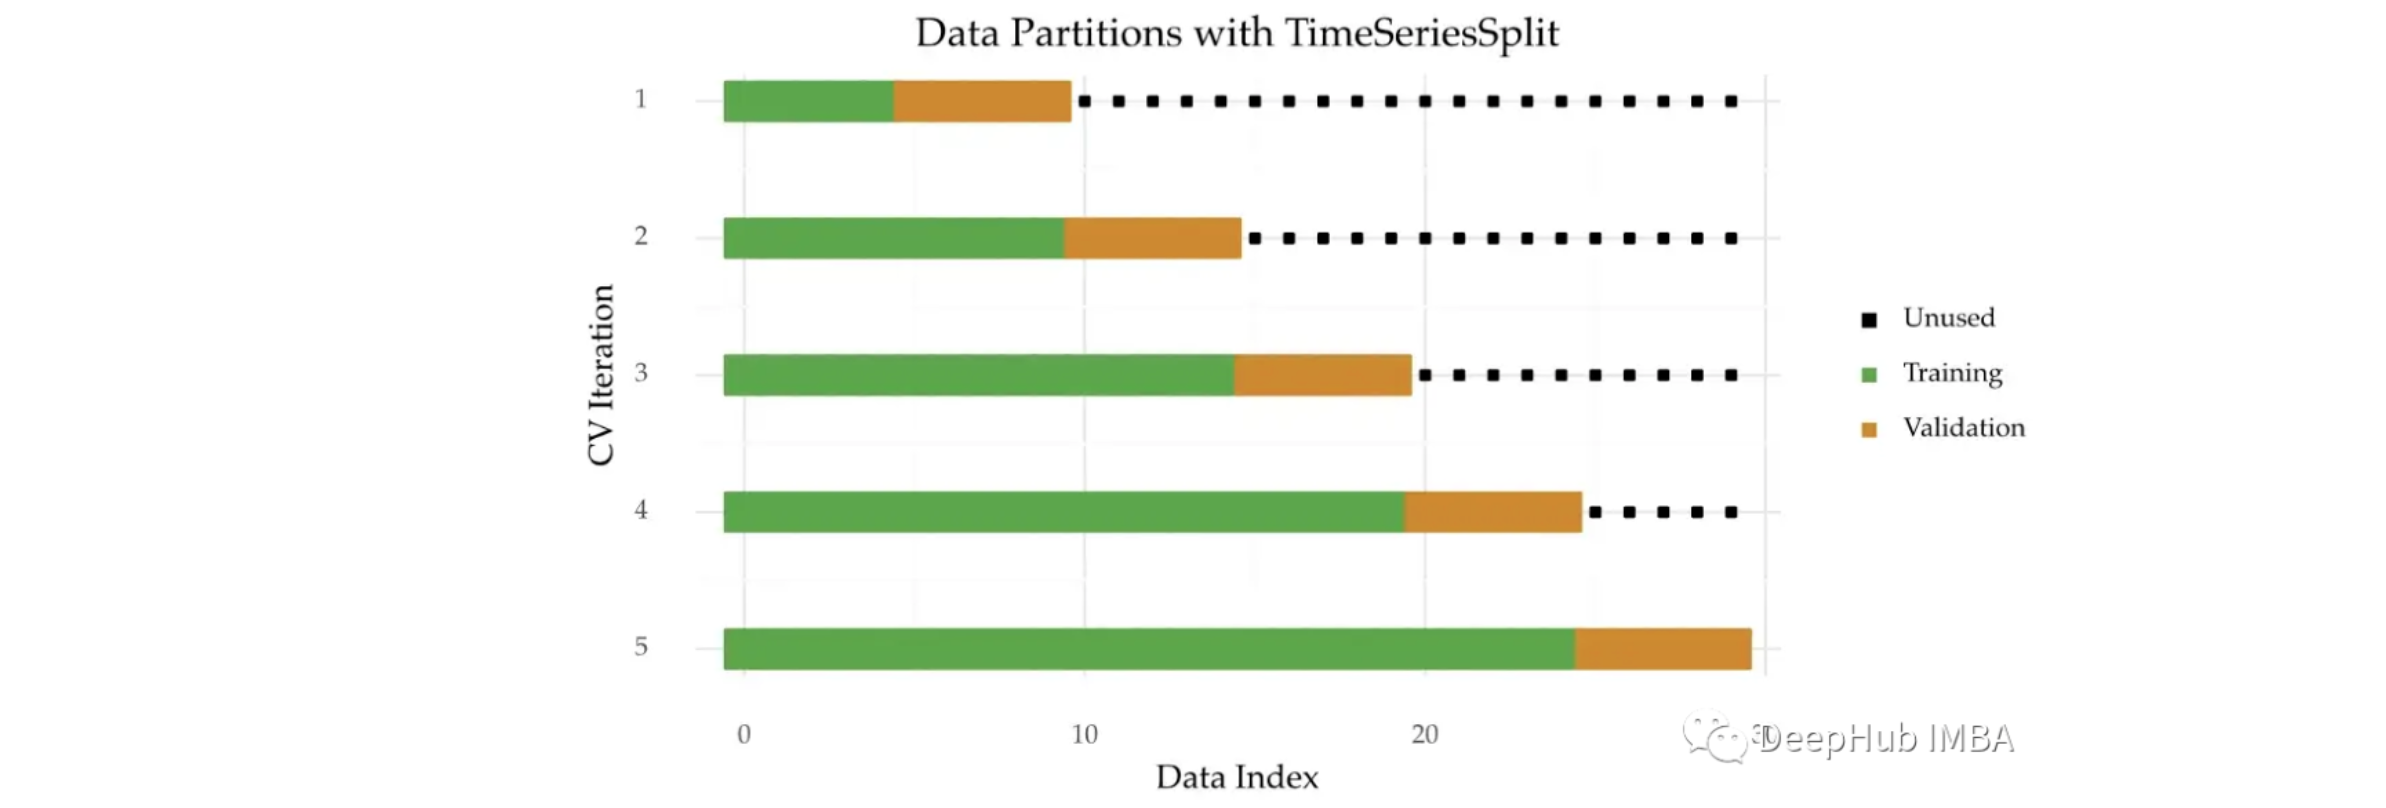
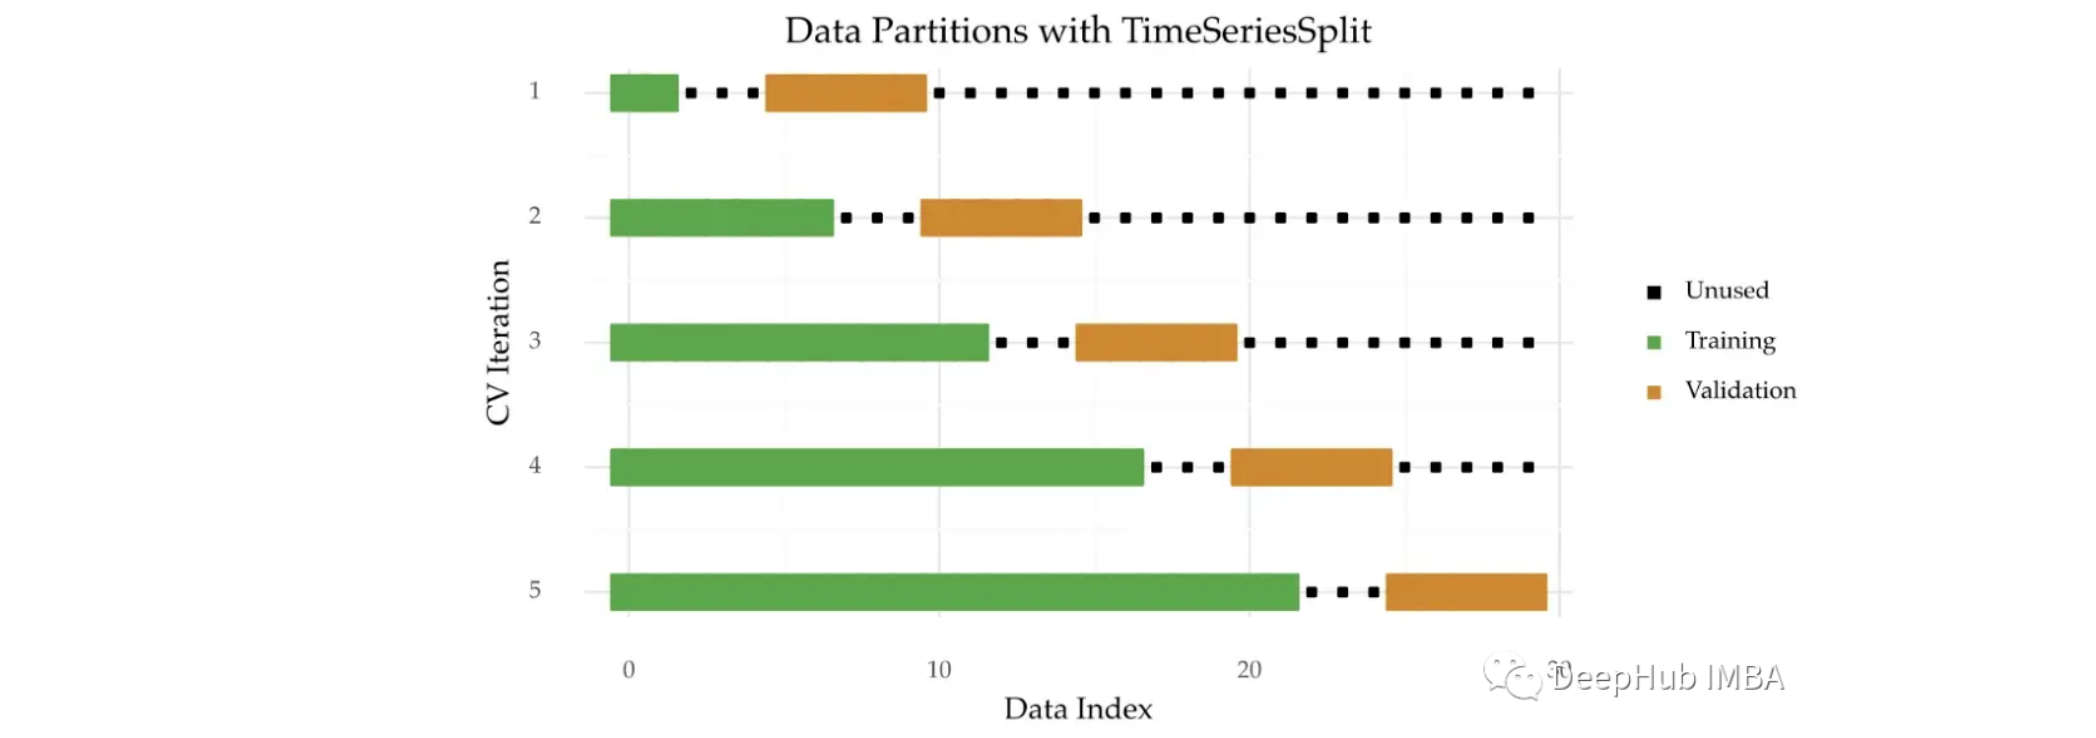
update

diff --git a/content/note/timeseries/model-utils/2023-03-03-model-validation/index.md b/content/note/timeseries/model-utils/2023-03-03-model-validation/index.md
@@ -33,13 +33,22 @@ details[open] summary {
 
 - [时间序列交叉验证介绍](#时间序列交叉验证介绍)
 - [时间序列交叉验证](#时间序列交叉验证)
-  - [时间序列交叉验证](#时间序列交叉验证-1)
-  - [带间隙的时间序列交叉验证](#带间隙的时间序列交叉验证)
-  - [滑动时间序列交叉验证](#滑动时间序列交叉验证)
+  - [Time Series Split](#time-series-split)
+    - [介绍](#介绍)
+    - [优缺点](#优缺点)
+    - [应用](#应用)
+  - [带间隙的 TimeSeriesSplit](#带间隙的-timeseriessplit)
+    - [介绍](#介绍-1)
+    - [应用](#应用-1)
+  - [滑动 TimeSeriesSplit](#滑动-timeseriessplit)
+    - [介绍](#介绍-2)
+    - [应用](#应用-2)
 - [蒙特卡洛交叉验证](#蒙特卡洛交叉验证)
   - [MonteCarloCV 实现](#montecarlocv-实现)
   - [MonteCarloCV 使用](#montecarlocv-使用)
 - [Hold Out](#hold-out)
+  - [Hold Out 介绍](#hold-out-介绍)
+  - [Hold Out 应用](#hold-out-应用)
 - [K-Fold 交叉验证](#k-fold-交叉验证)
   - [K-Fold](#k-fold)
   - [Blocked K-Fold](#blocked-k-fold)
@@ -50,54 +59,144 @@ details[open] summary {
 
 # 时间序列交叉验证介绍
 
-评估性能对预测模型的开发至关重要。交叉验证是一种流行的技术。但是在处理时间序列时，
-应该确保交叉验证处理了数据的时间依赖性质
-
-交叉验证应用于时间序列需要注意是要防止泄漏和获得可靠的性能估计。
-在时序问题上，需要特别注意不能做随机 split，而需要在时间维度上做前后的 split，
+评估性能对预测模型的开发至关重要。交叉验证是一种流行的技术，但是在处理时间序列时，
+应该确保交叉验证处理了数据的时间依赖性质，要防止数据泄漏和获得可靠的性能估计。
+在时序问题上，需要特别注意不能做随机分割，而需要在时间维度上做前后的分割，
 以保证与实际预测应用时的情况一致
 
-建议：
+对于方法的采用建议如下：
 
 * 首选技术是蒙特卡洛交叉验证
-* 时间序列交叉验证(及其变体)是一个很好的选择
-* 如果时间序列大小较大，通常直接 Holdout，因为评估过程更快
+* 其次，时间序列交叉验证(及其变体)是一个很好的选择
+* 如果时间序列数据较大，通常直接使用 Holdout，因为评估过程更快
 
 # 时间序列交叉验证
 
-## 时间序列交叉验证
+## Time Series Split
 
-进行多次拆分是个好主意。这样做可以在数据的不同部分上测试模型。
-一种方法是使用时间序列交叉验证，时间序列被分成 K 个连续的大小相等的数据块
+### 介绍
+
+对时间序列进行多次拆分是个好主意，这样做可以在时间序列数据的不同部分上测试模型。
+在时间序列交叉验证中，时间序列被分成 `$k+1$` 个连续的大小相等的数据块，前 `$k$` 个块为训练数据，
+第 `$k+1$` 个块为测试数据
 
 下面是该技术的可视化描述:
 
 ![img](images/timeseriessplit.png)
 
+### 优缺点
+
 使用时间序列交叉验证的主要好处如下:
 
-* 保持了观察的顺序。这个问题在有序数据集(如时间序列)中非常重要
-* 生成了很多拆分。几次拆分后可以获得更稳健的评估。如果数据集不大，这一点尤其重要
+* 保持了观察的顺序
+    - 这个问题在有序数据集(如时间序列)中非常重要
+* 生成了很多拆分，几次拆分后可以获得更稳健的评估
+    - 如果数据集不大，这一点尤其重要
 
-的主要缺点是跨折叠的训练样本量是不一致的：
+主要缺点是跨折叠的训练样本量是不一致的：
 
-* 假设将该方法应用于上图所示的 5 次分折。在第一次迭代中，所有可用观测值的 20% 用于训练。
-  但是，这个数字在上次迭代中是 80%。因此，初始迭代可能不能代表完整的时间序列。这个问题会影响性能估计。
+* 假设将该方法应用于上图所示的 5 次分折。在第一次迭代中，所有可用观测值的 20% 用于训练，
+  但是，这个数字在最后一次迭代中是 80%。因此，初始迭代可能不能代表完整的时间序列，这个问题会影响性能估计。
   可以使用蒙特卡洛交叉验证结局这个问题
+
+### 应用
 
 时间序列交叉验证就是 scikit-learn 中 `TimeSeriesSplit` 实现
 
-## 带间隙的时间序列交叉验证
+```python
+import numpy as np
+from sklearn.model_selection import TimeSeriesSplit
+
+
+X = np.array([
+    [1, 2],
+    [3, 4],
+    [1, 2],
+    [3, 4],
+    [1, 2],
+    [3, 4],
+])
+y = np.array([1, 2, 3, 4, 5, 6])
+
+tscv = TimeSeriesSplit(n_splits = 5, max_train_size = None, test_size = None, gap = 0)
+
+for i, (train_index, test_index) in enumerate(tscv.split(X)):
+    print(f"Fold {i}:")
+    print(f"  Train: index={train_index}")
+    print(f"  Test: index={test_index}")
+```
+
+```
+Fold 0:
+  Train: index=[0]
+  Test:  index=[1]
+Fold 1:
+  Train: index=[0 1]
+  Test:  index=[2]
+Fold 2:
+  Train: index=[0 1 2]
+  Test:  index=[3]
+Fold 3:
+  Train: index=[0 1 2 3]
+  Test:  index=[4]
+Fold 4:
+  Train: index=[0 1 2 3 4]
+  Test:  index=[5]
+```
+
+## 带间隙的 TimeSeriesSplit
+
+### 介绍
 
 可以在上述技术中增加训练和验证之间的间隙。这有助于增加两个样本之间的独立性
 
 ![img](images/timeseriessplit_gap.png)
 
+### 应用
+
 使用 `TimeSeriesSplit` 类中的 `gap` 参数引入这个间隙
 
-## 滑动时间序列交叉验证 
+```python
+import numpy as np
+from sklearn.model_selection import TimeSeriesSplit
 
-另一种应用时间序列交叉验证的方法是滑动窗口。在迭代之后老的数据块被丢弃。这种方法可能在两种情况下有用:
+
+X = np.array([
+    [1, 2],
+    [3, 4],
+    [1, 2],
+    [3, 4],
+    [1, 2],
+    [3, 4],
+])
+y = np.array([1, 2, 3, 4, 5, 6])
+
+tscv = TimeSeriesSplit(n_splits = 3, test_size = 2, gap = 2)
+
+for i, (train_index, test_index) in enumerate(tscv.split(X)):
+    print(f"Fold {i}:")
+    print(f"  Train: index={train_index}")
+    print(f"  Test: index={test_index}")
+```
+
+```
+Fold 0:
+  Train: index=[0 1 2 3]
+  Test:  index=[6 7]
+Fold 1:
+  Train: index=[0 1 2 3 4 5]
+  Test:  index=[8 9]
+Fold 2:
+  Train: index=[0 1 2 3 4 5 6 7]
+  Test:  index=[10 11]
+```
+
+## 滑动 TimeSeriesSplit 
+
+### 介绍
+
+另一种应用时间序列交叉验证的方法是滑动窗口，即在迭代之后老的数据块被丢弃。
+这种方法可能在两种情况下有用：
 
 * 数据量巨大
 * 旧的观察已经过时了
@@ -105,6 +204,12 @@ details[open] summary {
 这种变体也可以应用于训练样本和验证样本之间的间隙
 
 ![img](images/timeseriessplit_sliding.png)
+
+### 应用
+
+```python
+# TODO
+```
 
 # 蒙特卡洛交叉验证
 
@@ -279,10 +384,15 @@ gsearch.fit(X, y)
 
 > Hold Out 验证，样本外验证
 
-Hold Out 是估计预测效果最简单的方法。工作原理是进行一次分割，该序列的第一部分数据集用于训练模型，在保留的数据集中进行验证。
-一般情况下训练集的大小设置为总数据集的 `$70\%$`，如果时间序列数据集不大，使用单个分割可能会导致不可靠的估计
+## Hold Out 介绍
+
+Hold Out 是估计预测效果最简单的方法。工作原理是进行一次分割，该序列的第一部分数据集用于训练模型，
+在保留的数据集中进行验证。一般情况下训练集的大小设置为总数据集的 `$70\%$`，如果时间序列数据集不大，
+使用单个分割可能会导致不可靠的估计
 
 ![img](images/holdout.png)
+
+## Hold Out 应用
 
 可以使用 scikit-learn 中的 `train_test_split` 函数应用 Hold Out 验证
 
